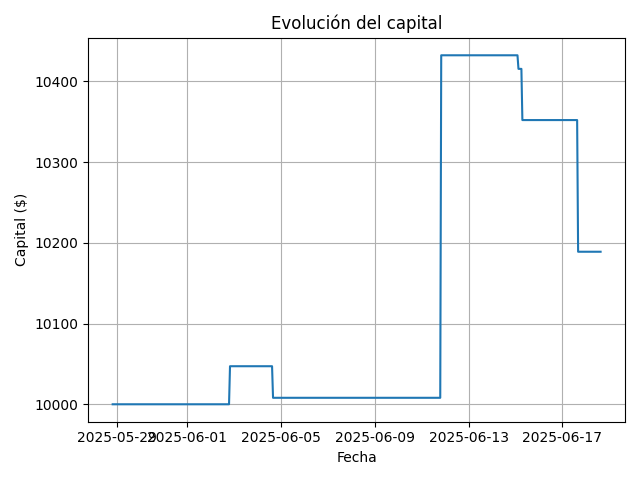
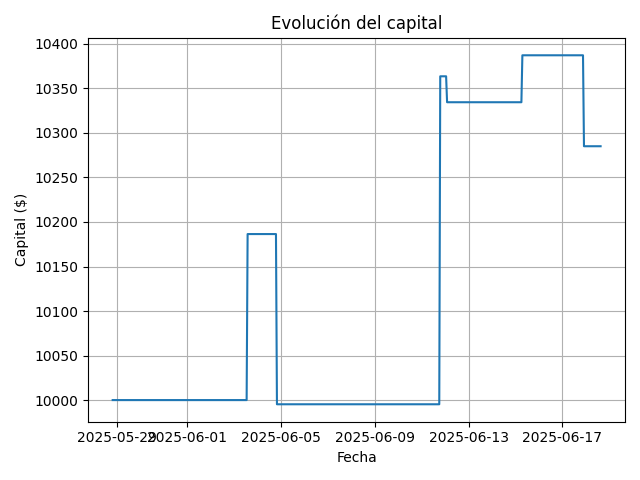
optimize_sma

diff --git a/src/optimize_sma.py b/src/optimize_sma.py
@@ -1,0 +1,47 @@
+import pandas as pd
+from src.backtest import backtest_signals
+from src.strategy import moving_average_crossover
+from src.binance_api import get_historical_data
+import os
+from datetime import datetime
+
+# === Obtener datos reales ===
+df = get_historical_data(symbol='BTC/USDT', timeframe='1h', limit=500)
+
+# === Combinaciones a probar ===
+short_windows = [10, 15, 20, 30]
+long_windows = [50, 75, 100, 120]
+
+results = []
+
+# === Probar todas las combinaciones ===
+for short_w in short_windows:
+    for long_w in long_windows:
+        if short_w >= long_w:
+            continue  # invalid: short must be < long
+
+        df_copy = df.copy()
+        df_copy = moving_average_crossover(df_copy, short_window=short_w, long_window=long_w)
+        df_copy, capital, metrics = backtest_signals(df_copy)
+
+        results.append({
+            'strategy': 'moving_average',
+            'short_window': short_w,
+            'long_window': long_w,
+            'capital_final': round(capital, 2),
+            'total_return': round(metrics['total_return'] * 100, 2),
+            'sharpe_ratio': round(metrics['sharpe_ratio'], 2),
+            'max_drawdown': round(metrics['max_drawdown'] * 100, 2),
+            'timestamp': datetime.now().isoformat()
+        })
+
+# === Guardar resultados en CSV ===
+os.makedirs('results', exist_ok=True)
+results_df = pd.DataFrame(results)
+results_df.to_csv('results/sma_optimization.csv', index=False)
+
+# === Mostrar top 5 setups por retorno ===
+print("\n📈 Top 5 combinaciones de SMA por Retorno Total:")
+print("")
+top5 = results_df.sort_values('total_return', ascending=False).head(5)
+print(top5.to_string(index=False))

diff --git a/src/run_backtest.py b/src/run_backtest.py
@@ -24,7 +24,11 @@ else:
     raise ValueError(f"❌ Estrategia desconocida: {strategy_name}")
 
 # === Aplicar estrategia ===
-df = strategy(df)
+if strategy_name == 'moving_average':
+    df = strategy(df, short_window=30, long_window=50)
+else:
+    df = strategy(df)
+
 
 print(f"📌 Estrategia seleccionada: {strategy_name}\n")
 print("🔎 Conteo de señales:")
